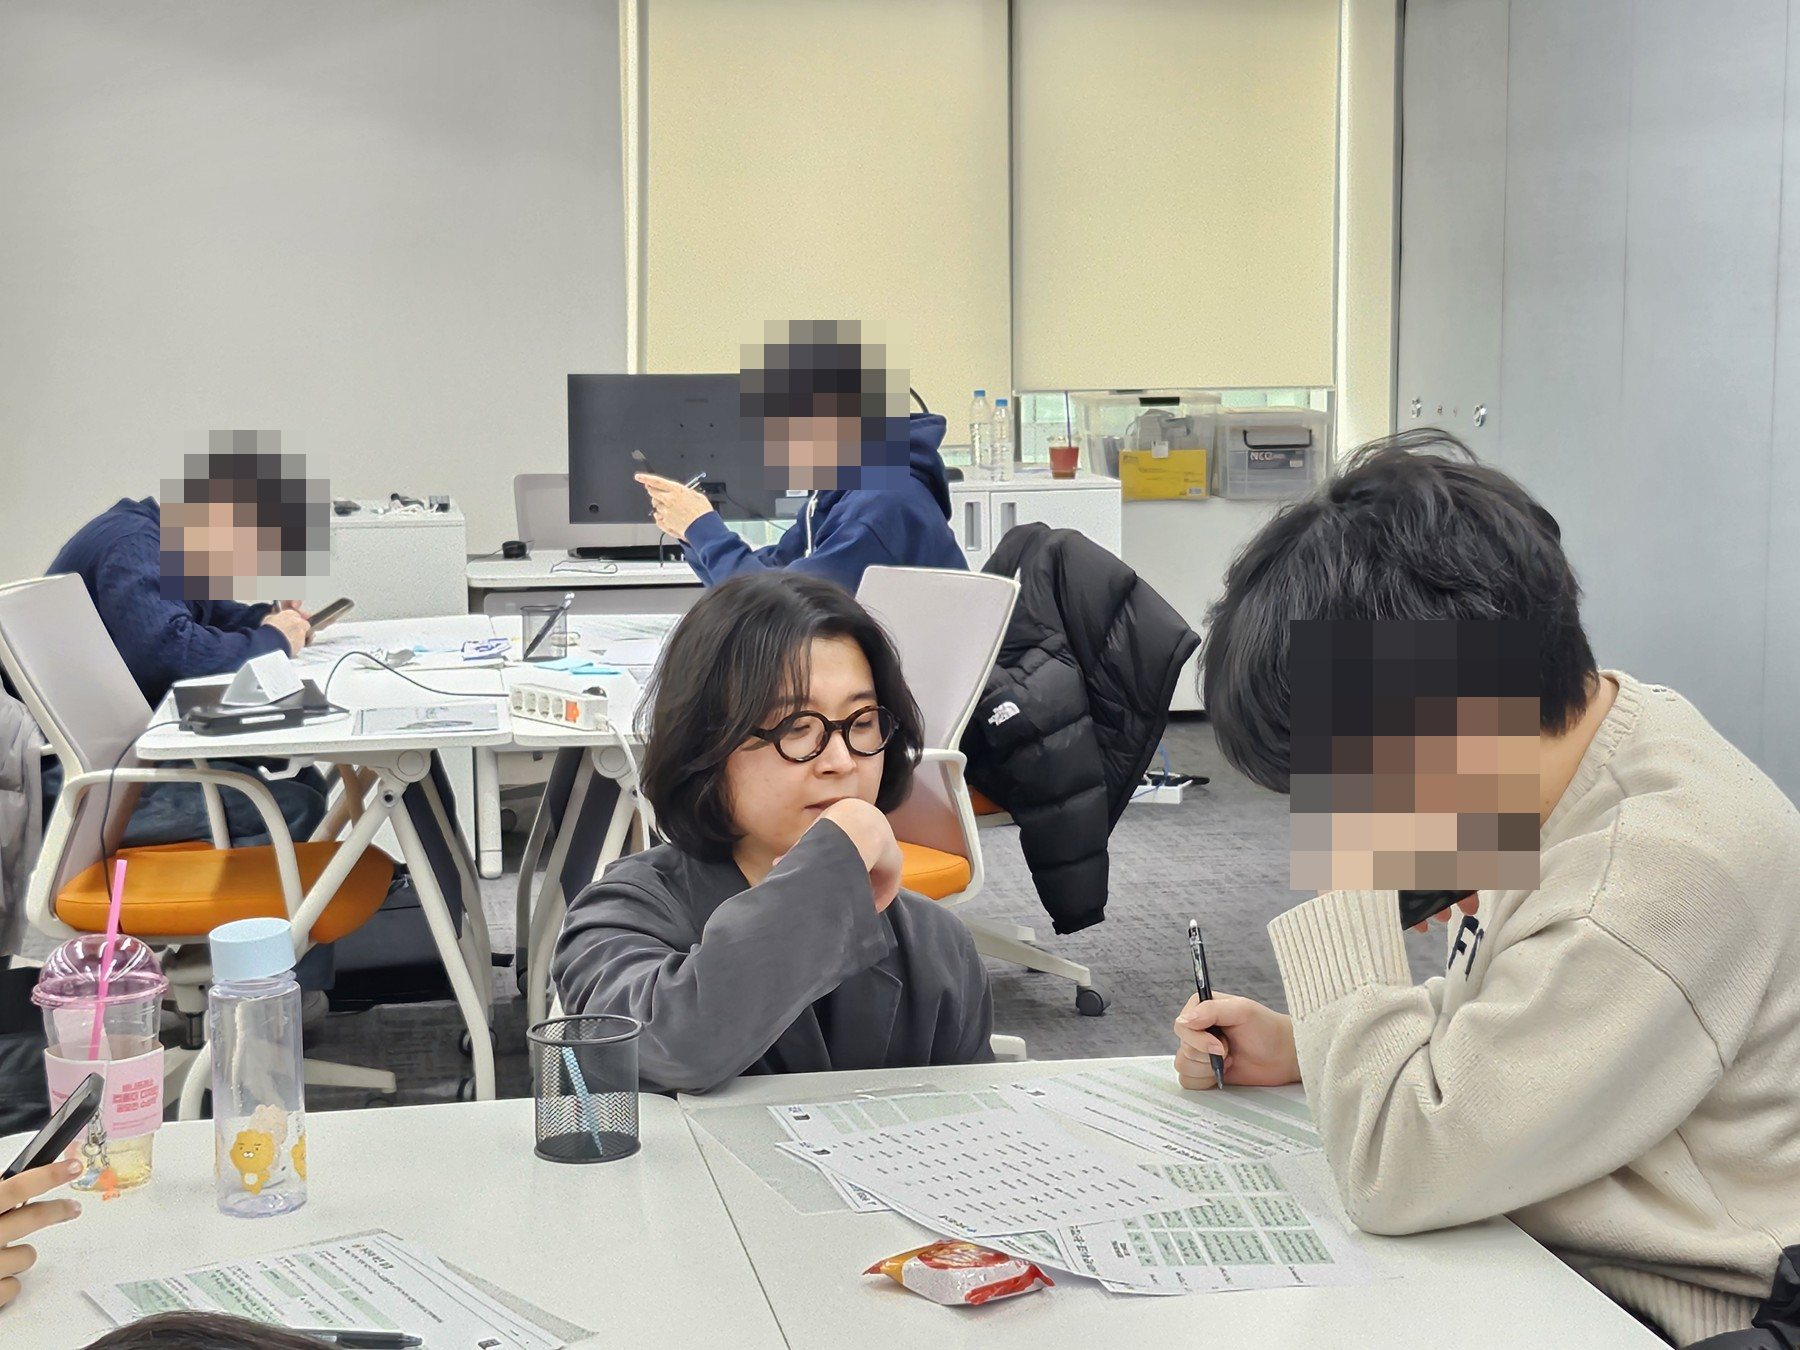
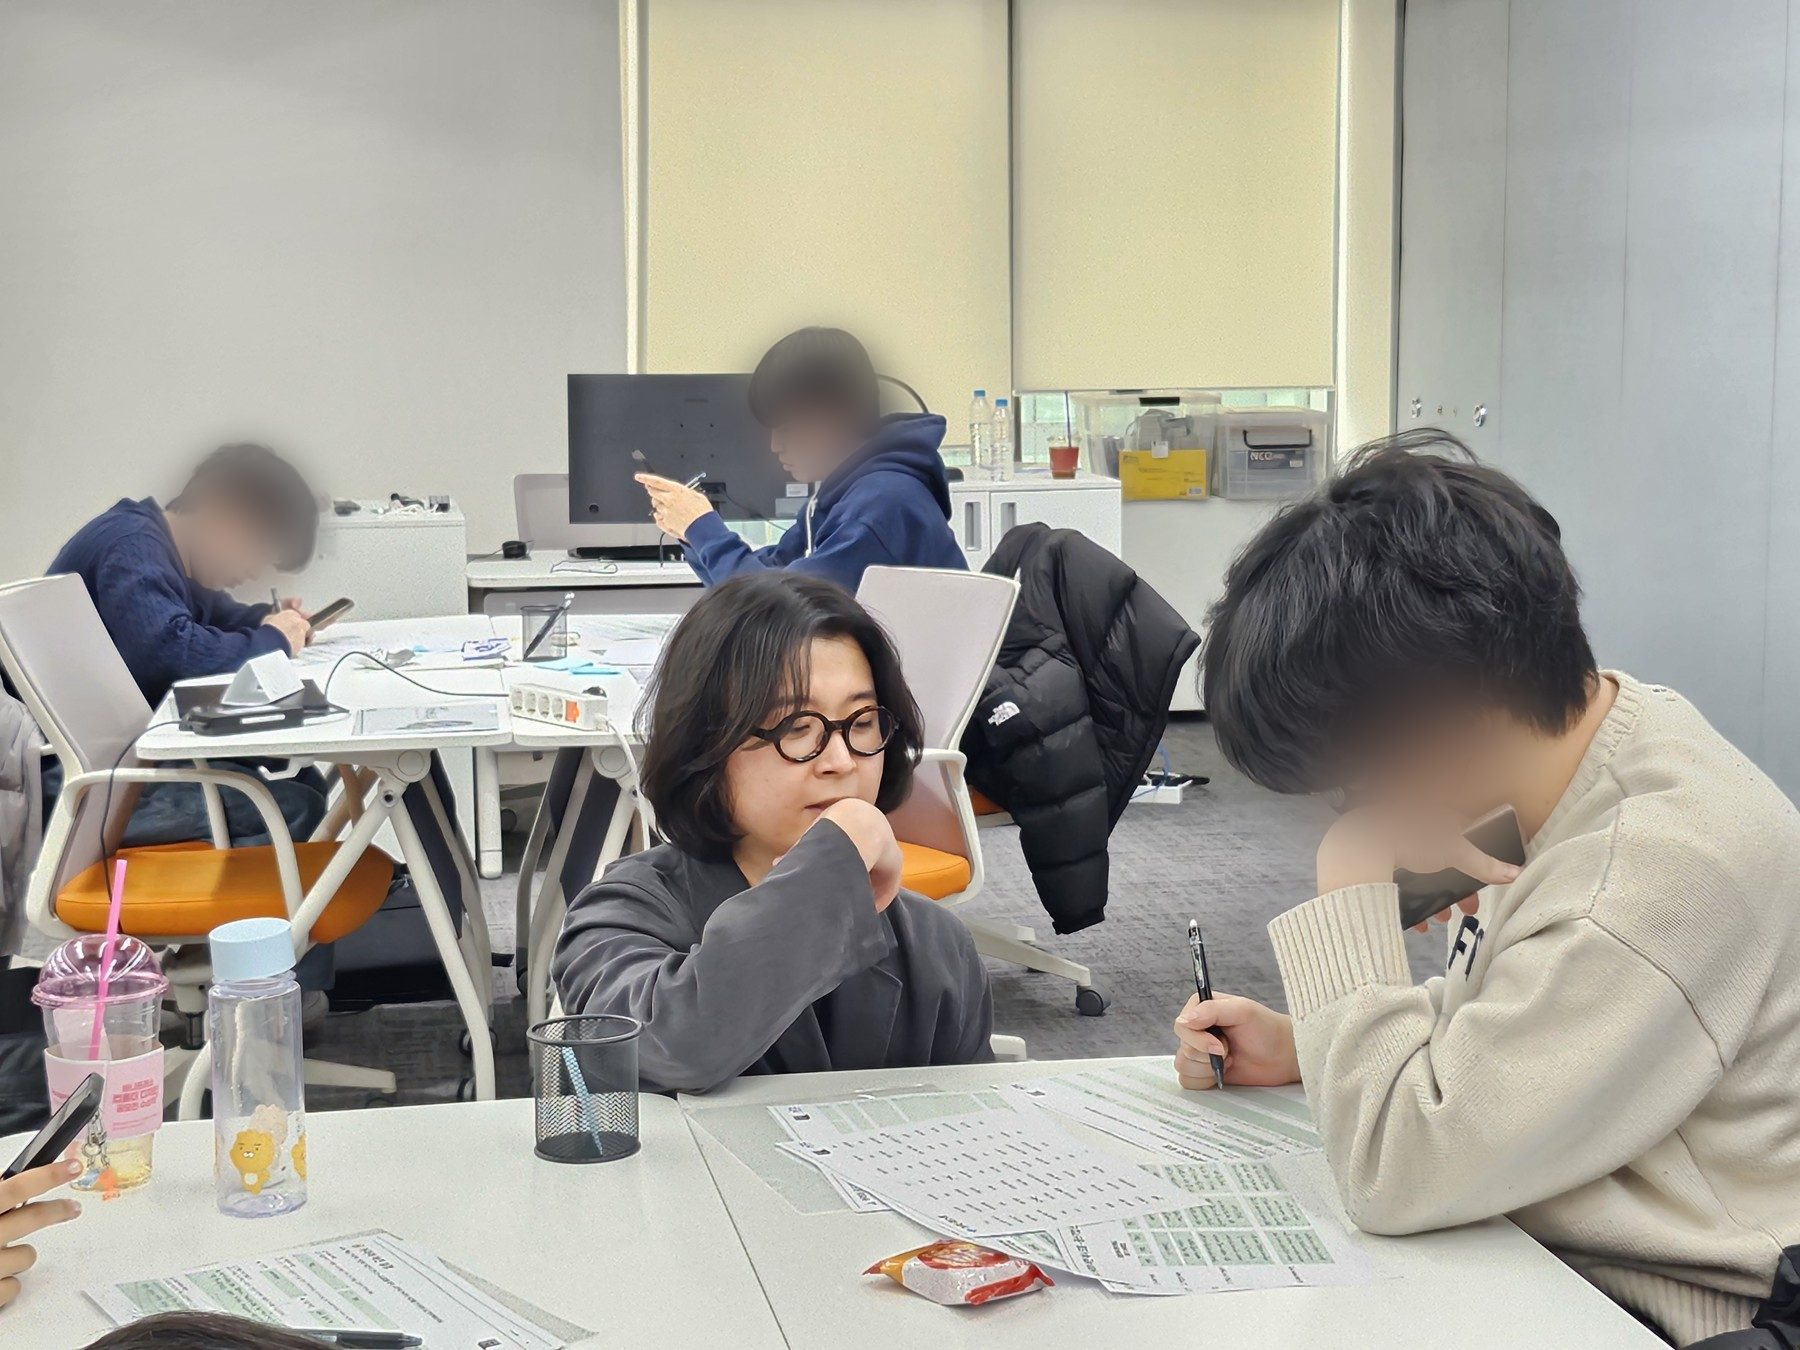
신청서를 구글 시트에 연결, 강의와 워크숍 현장 갤러리 추가, 얼굴 가림을 부드러운 흐림으로 변경

Changed region(s): [[0.7156, 0.4978, 0.8711, 0.6844], [0.4044, 0.2178, 0.5289, 0.3733], [0.0622, 0.3111, 0.1867, 0.4667]]

diff --git a/index.html b/index.html
@@ -74,14 +74,18 @@
         <p class="signature">박규진 드림</p>
       </div>
     </div>
-    <div class="wrap field-photos">
-      <figure>
-        <img src="images/workshop2.jpg" alt="워크숍에서 박규진 코치가 참여자 곁에 서서 이야기를 나누는 모습" width="1800" height="1350" loading="lazy">
-      </figure>
-      <figure>
-        <img src="images/workshop1.jpg" alt="워크숍 테이블에 참여자들과 함께 앉아 고민하는 박규진 코치" width="1800" height="1350" loading="lazy">
-      </figure>
-      <p class="field-caption">청년들과 함께한 워크숍 현장. 참여자의 얼굴은 가렸습니다.</p>
+    <div class="wrap scene">
+      <h3 class="scene-title">강의와 워크숍 현장</h3>
+      <div class="gallery">
+        <figure class="g-wide"><img src="images/workshop2.jpg" alt="워크숍에서 참여자 곁에 서서 이야기를 나누는 박규진 코치" width="1800" height="1350" loading="lazy"></figure>
+        <figure class="g-wide"><img src="images/lecture2.jpg" alt="커리어 비전을 주제로 강의하는 박규진 코치" width="1800" height="1350" loading="lazy"></figure>
+        <figure class="g-tall"><img src="images/lecture1.jpg" alt="강의 시작 전 노트북으로 자료를 준비하는 모습" width="768" height="1024" loading="lazy"></figure>
+        <figure class="g-wide"><img src="images/lecture5.jpg" alt="유학생 대상 취업 역량 강화 프로그램에서 강의하는 모습" width="1800" height="1350" loading="lazy"></figure>
+        <figure class="g-tall"><img src="images/lecture3.jpg" alt="교육 마무리 시간에 참여자들 앞에서 이야기하는 모습" width="1080" height="1440" loading="lazy"></figure>
+        <figure class="g-wide"><img src="images/workshop1.jpg" alt="워크숍 테이블에 참여자들과 함께 앉아 고민하는 모습" width="1800" height="1350" loading="lazy"></figure>
+        <figure class="g-wide"><img src="images/lecture4.jpg" alt="취업 및 채용 간담회를 진행하는 모습" width="1440" height="1081" loading="lazy"></figure>
+      </div>
+      <p class="scene-caption">참여자의 얼굴과 개인정보는 가렸습니다.</p>
     </div>
   </section>
 

diff --git a/styles.css b/styles.css
@@ -141,12 +141,19 @@ p { margin: 0; }
   .letter-photo { position: static; max-width: 340px; }
 }
 
-/* 워크숍 현장 사진 */
-.field-photos { display: grid; grid-template-columns: 1fr 1fr; gap: 16px; margin-top: clamp(56px, 7vw, 88px); }
-.field-photos figure { margin: 0; }
-.field-photos img { width: 100%; aspect-ratio: 4 / 3; object-fit: cover; border-radius: var(--r-lg); }
-.field-caption { grid-column: 1 / -1; font-size: 14px; color: var(--muted); }
-@media (max-width: 640px) { .field-photos { grid-template-columns: 1fr; } }
+/* 강의와 워크숍 현장 갤러리 */
+.scene { margin-top: clamp(64px, 8vw, 104px); }
+.scene-title { margin-bottom: 20px; }
+.gallery { display: grid; grid-template-columns: repeat(4, 1fr); grid-auto-rows: clamp(110px, 13vw, 160px); grid-auto-flow: dense; gap: 12px; }
+.gallery figure { margin: 0; overflow: hidden; border-radius: var(--r-md); background: var(--surface); }
+.gallery img { width: 100%; height: 100%; object-fit: cover; }
+.g-wide { grid-column: span 2; grid-row: span 2; }
+.g-tall { grid-row: span 2; }
+.scene-caption { font-size: 14px; color: var(--muted); margin-top: 14px; }
+@media (max-width: 640px) {
+  .gallery { grid-template-columns: repeat(2, 1fr); grid-auto-rows: 130px; }
+  .g-wide { grid-column: span 2; grid-row: span 2; }
+}
 
 /* 이런 생각을 자주 하신다면 */
 .concerns { background: var(--surface); padding: var(--section) 0; }

diff --git a/app.js b/app.js
@@ -1,6 +1,6 @@
 // 신청서 전송
 // Google Apps Script 웹앱 주소를 배포한 뒤 아래 ENDPOINT에 넣습니다. (apps-script/README.md 참고)
-const ENDPOINT = "";
+const ENDPOINT = "https://script.google.com/macros/s/AKfycbw7o7JQjhFea9Zp4bNUuRPlT3pdbz9k34oN9cJsy3rhwRkS1bmRV5avsNGuZnQz2myz5w/exec";
 
 (function () {
   const form = document.getElementById("apply-form");
